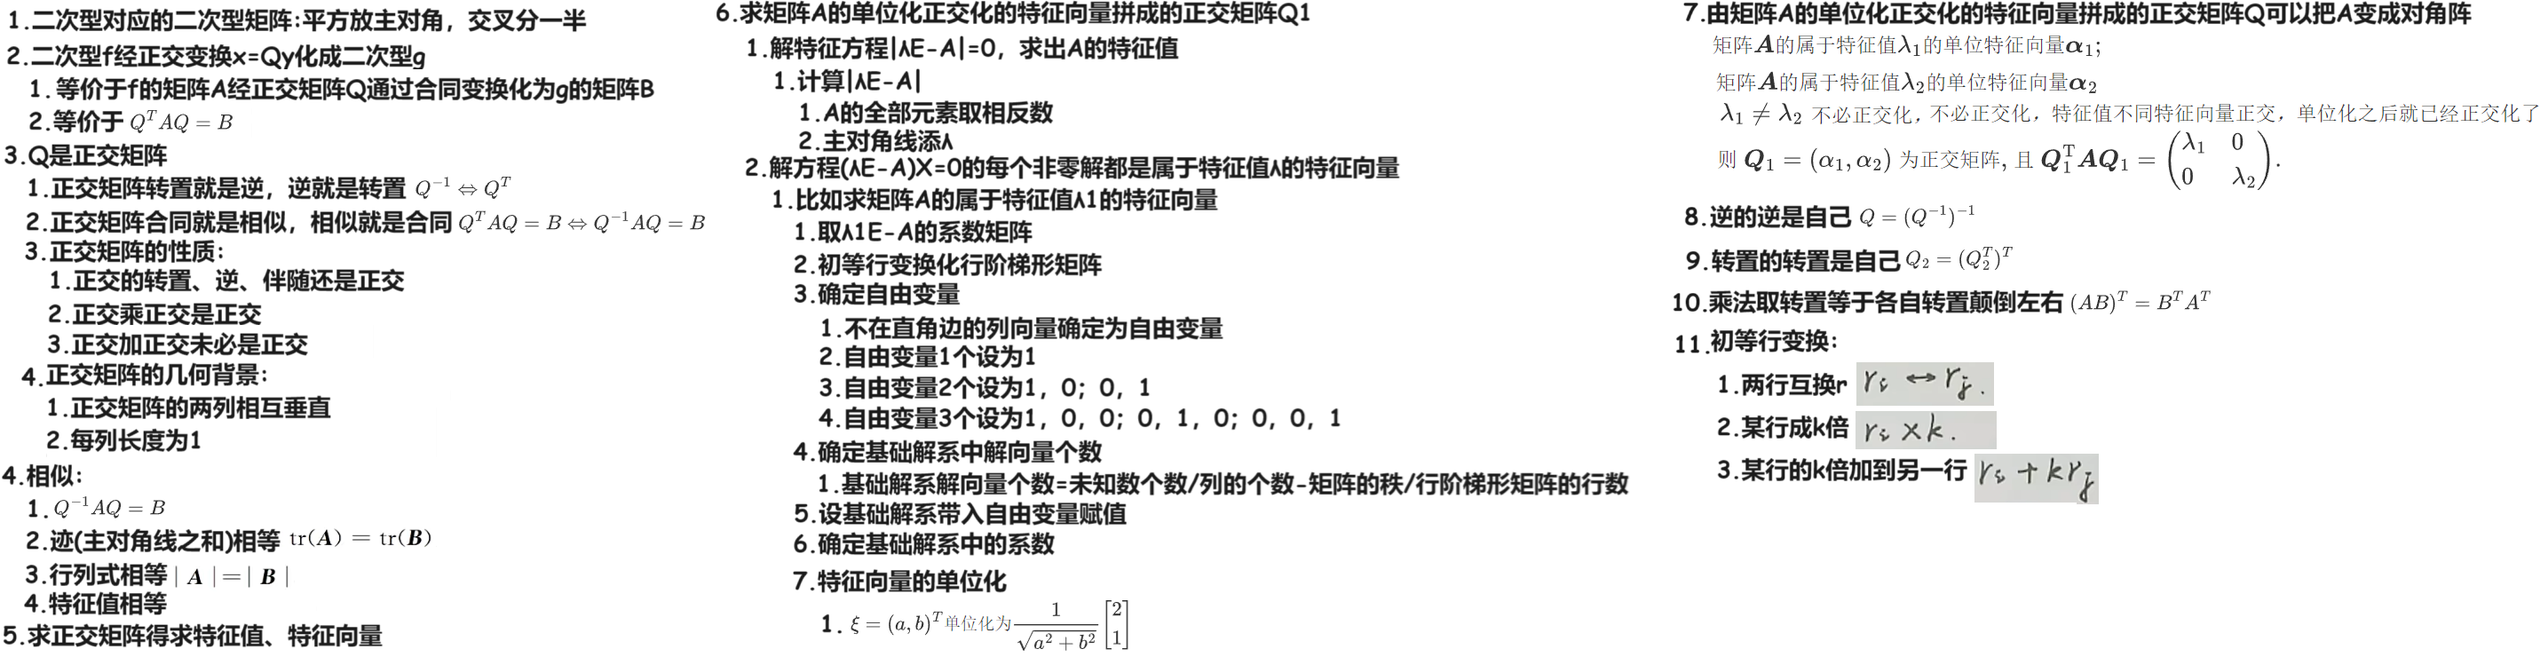
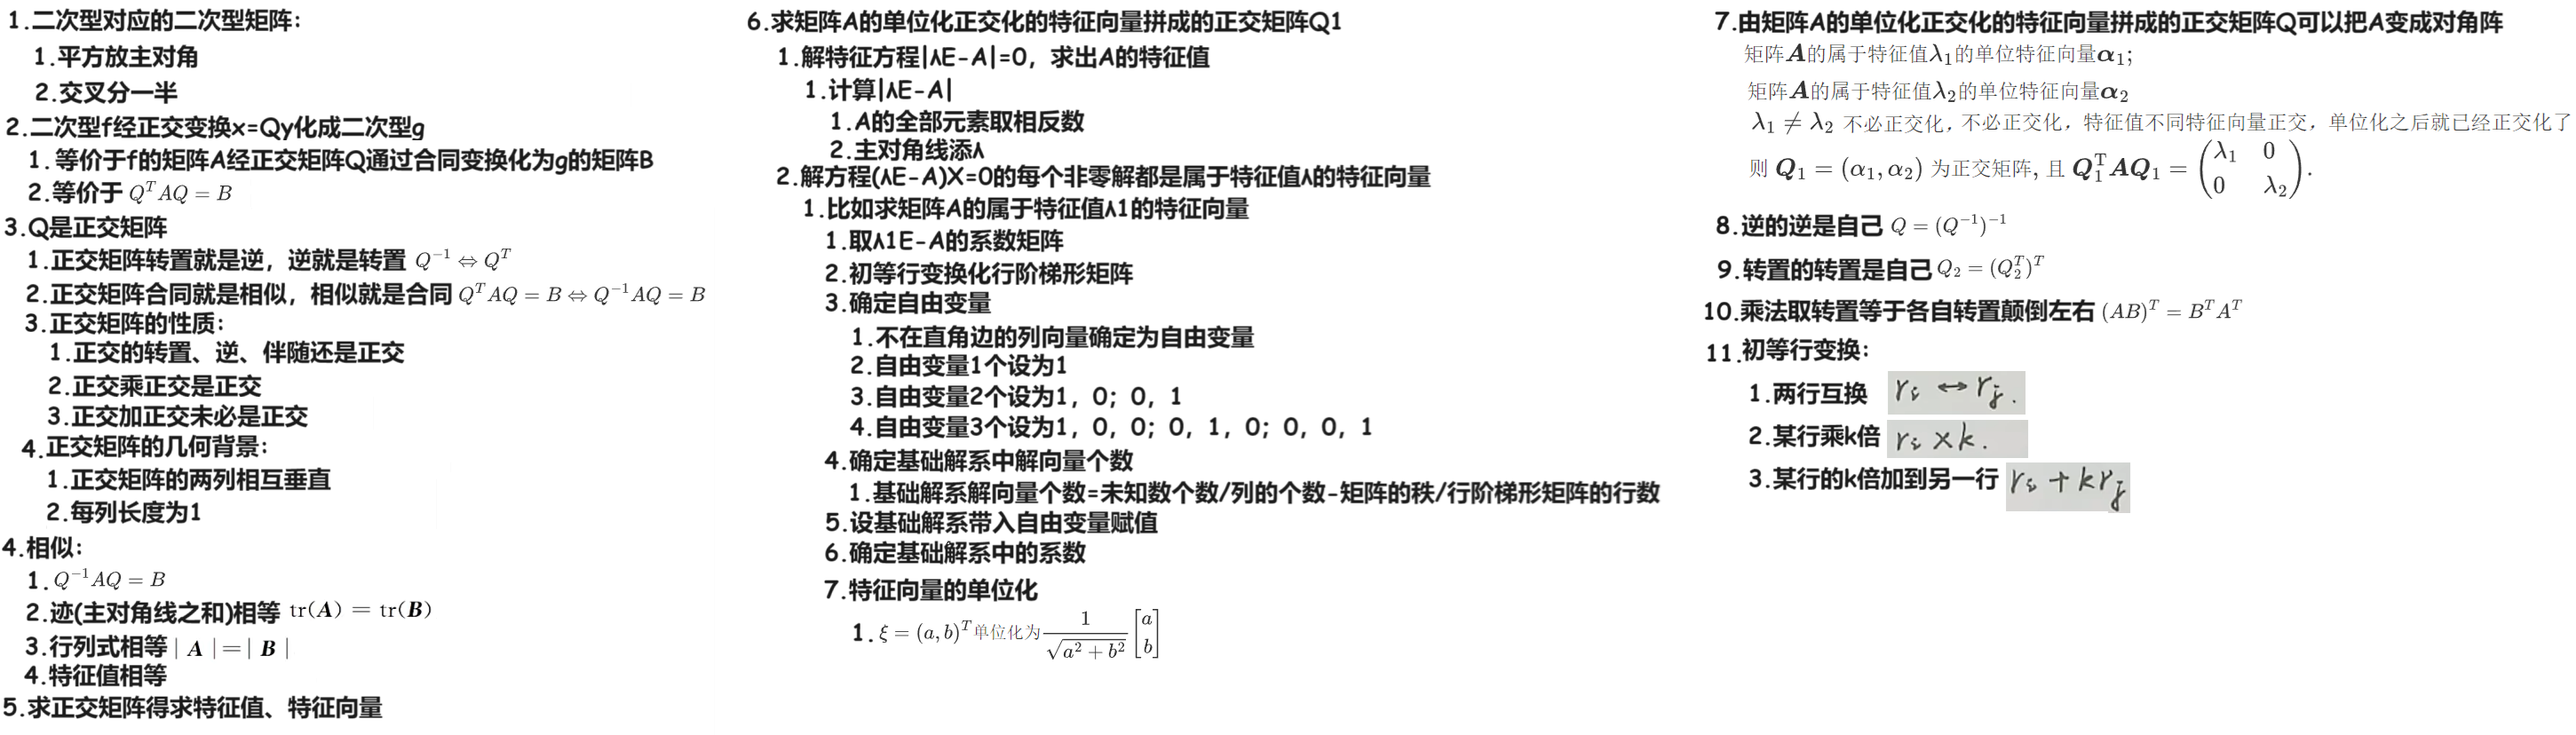
231128

diff --git a/01 每日一题/01 20数一/20 20T20【二次型】231123/01 Note.md b/01 每日一题/01 20数一/20 20T20【二次型】231123/01 Note.md
@@ -1,6 +1,6 @@
 # 背诵
 
-<img src="https://cvp.oss-cn-shanghai.aliyuncs.com/picgo/202311271532885.png" style="zoom:50%;" />
+<img src="https://cvp.oss-cn-shanghai.aliyuncs.com/picgo/202311281650271.png" alt="image-20231128165056050" style="zoom:50%;" />
 
 
 
